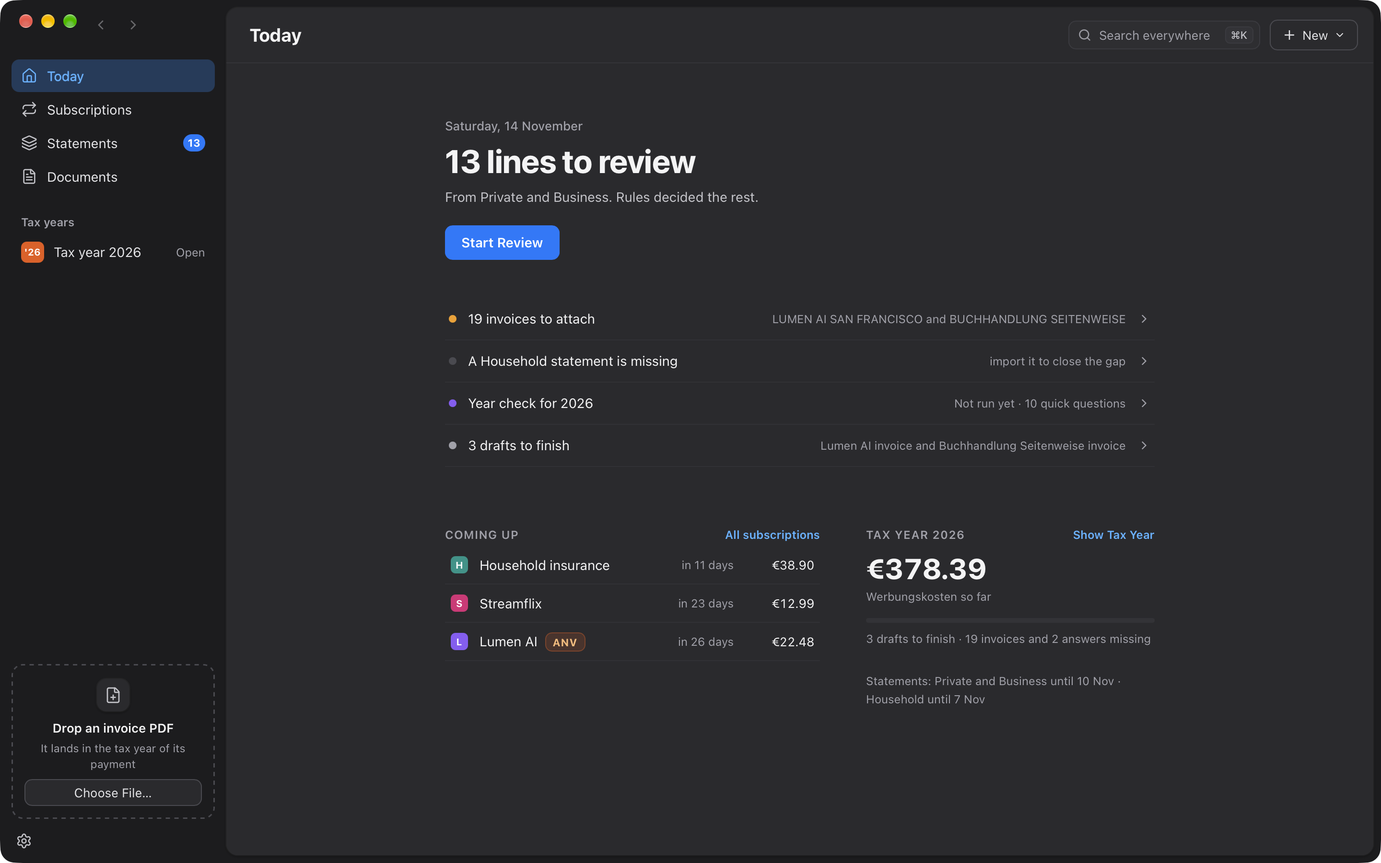
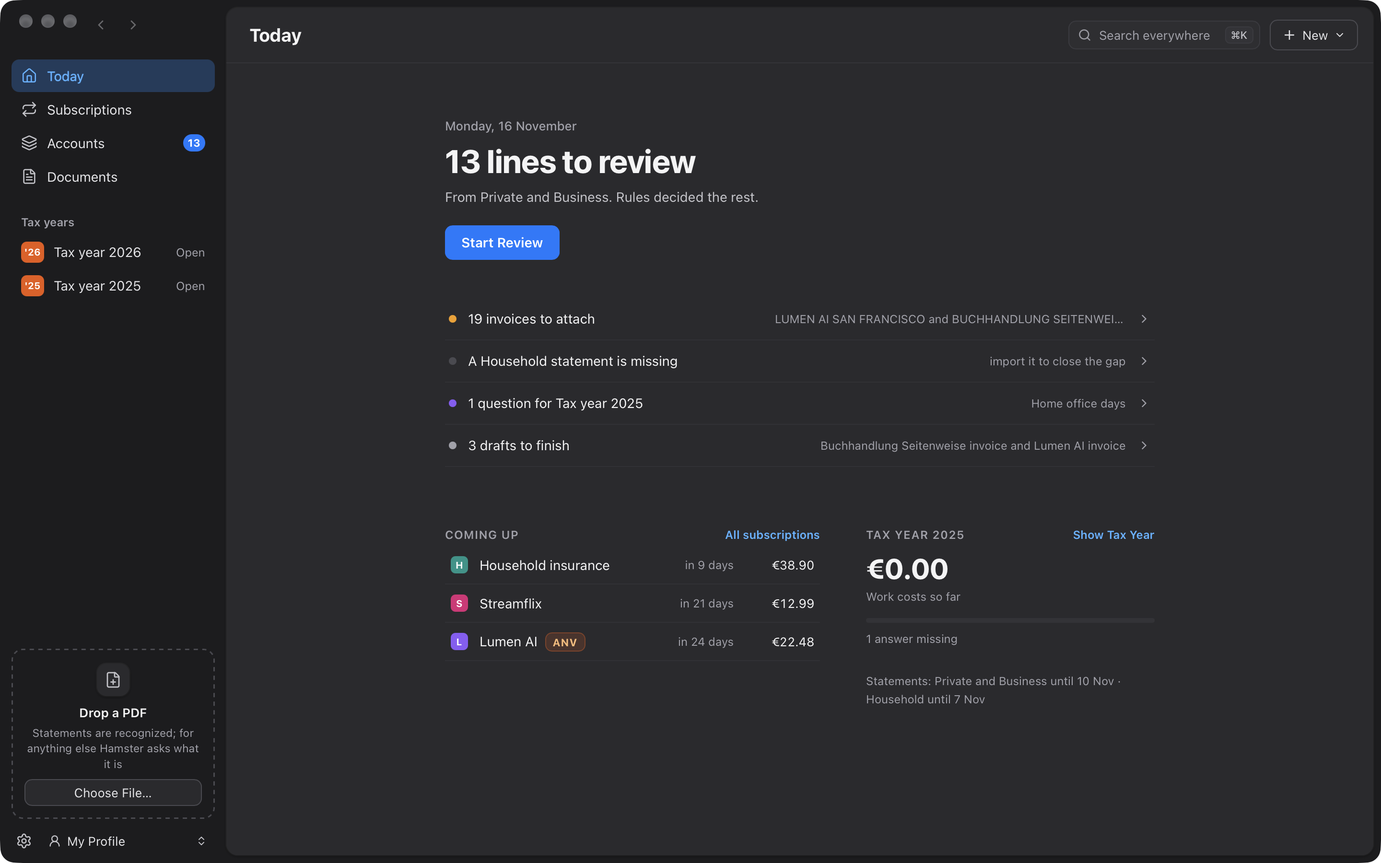
Bring the docs and screenshots up to date

diff --git a/src-tauri/src/profiles/mod.rs b/src-tauri/src/profiles/mod.rs
@@ -1,5 +1,5 @@
 //! Profiles: each person's data in its own folder under `profiles/`, listed in `profiles.json` in the app
-//! folder. The app opens the active profile at launch; a switch starts the app anew on another (ADR 0060).
+//! folder. The app opens the active profile at launch and switches to another in place (ADR 0060, ADR 0061).
 
 pub mod cli;
 pub mod commands;

diff --git a/docs/architecture.md b/docs/architecture.md
@@ -53,8 +53,7 @@ These rules hold everywhere in the code. Keep them when you change things.
 - No URL scheme (ADR 0047): outside callers use the CLI.
 - At launch a supervised task checks every referenced PDF (exists, SHA-256 matches) and appends journal rows
   missing from `journal.jsonl`; findings become a banner, nothing is repaired silently.
-- Reminders are (re)scheduled with the macOS notification center at launch and after every change that moves
-  a date; they fire while the app is not running (ADR 0035).
+- The running app tells due reminders at launch and every half hour (`app.rs` `REMINDER_INTERVAL`, ADR 0042).
 
 ## Data
 
@@ -69,14 +68,15 @@ Everything lives in the config dir (ADR 0012), 0700 with files 0600; each person
   settings.json         language, appearance, accent, number format (`settings::APP_WIDE`)
   profiles/<id>/
     hamster.sqlite      accounts, statements, transactions, rules, decisions, vendors, documents,
-                        document_links, deletions, answers, entries, subscriptions, plans, tax_years,
-                        snapshots, journal
+                        document_links, deletions, answers, entries, hidden_items, year_checks,
+                        subscriptions, plans, payslips, others, tax_years, snapshots, journal
     journal.jsonl       append-only copy of the journal table, one line per changed field, never rewritten
-    docs/<year>/        <yyyy-mm-dd>-<vendor>.pdf by payment date; -2, -3 on collision; evidence/ for amounts
+    docs/<year>/        <yyyy-mm-dd>-<vendor>.pdf by payment date; -2, -3 on collision; evidence/ for amounts;
+                        payslips/ for payslips
+    docs/other/         other documents worth keeping
     docs/inbox/         undated documents under their original name
     statements/<year>/  <account>-<nr>.pdf, year of the statement's end date
     snapshots/          <year>-summary.pdf, written when a year is closed; -2, -3 after a reopen
-    rules/              the owner's versions of the tax rules
     reminders.json      the keys of the reminders already told (ADR 0042)
     settings.json       every other setting
 ```
@@ -151,12 +151,12 @@ Frontend (`src/`):
 | `api/` | the `api` object (only place that imports `@tauri-apps/*`), `toAppError`, generated `types.gen.ts` |
 | `state/` | the zustand store (route and history, filter, toasts, confirmation; `window.hamster` in debug builds), `route.ts` (every page), `useAppEvents` |
 | `shell/` | `Window`, `FilesBanner` (red line while stored PDFs are missing or changed), `Sidebar` (pages, tax years, drop zone), `Header` (crumb, title, page controls, filter field with "matches elsewhere" and ⌘↩, + New), page titles |
-| `pages/` | each page's body (`PageBody`), the per-page header texts, `FirstRun` (no account yet), `StatementsPage` (coverage per account, Start Review), `AccountPage` (lines by statement with their decision), `TodayPage` (the next step as headline, quiet rows, coming up, the tax year), `ReviewPage` (one line at a time; A, S, I pick, Return confirms, J skips), `SubscriptionsPage` (by next charge, Ended folded, the detail panel), `DocumentsPage` (by year plus Inbox), `DocumentPage` (PDF beside `DocumentForm`, History on the right, finished and excluded banners), `LogPage`, `ArchivePage`, `YearPage` (hero, questions, needs attention, By Kennzahl with copy buttons, By month, … menu) |
+| `pages/` | each page's body (`PageBody`), the per-page header texts, `FirstRun` (no account yet), `StatementsPage` (the Accounts page: coverage per account over one calendar year with a year stepper, ADR 0059; Start Review), `AccountPage` (lines by statement with their decision), `TodayPage` (the next step as headline, quiet rows, coming up, the tax year), `ReviewPage` (one line at a time; A, S, I pick, Return confirms, J skips), `SubscriptionsPage` (by next charge, Ended folded, the detail panel), `DocumentsPage` (by year plus Inbox), `DocumentPage` (PDF beside `DocumentForm`, History on the right, finished and excluded banners), `LogPage`, `ArchivePage`, `YearPage` (hero, questions, needs attention, By Kennzahl with copy buttons, By month, … menu) |
 | `documents/` | `DocumentForm` (each field saves on its own; Mark Finished), `DepreciationBlock`, `HistoryList`, `ExcludeSheet`, `DeleteSheet`, `lifecycle.ts`, `LinePicker` (link a bank line), `AddDocumentSheet` (vendor, item, the bank line that paid it, what it counts as), `addFlow.ts` (`startAddDocument` from ⌘O, + New and the sidebar's Choose File…; `attachInvoiceTo`, the tax year's Attach PDF… for one bank line, which the sheet starts on; `useDroppedDocuments`) |
 | `subscriptions/` | `flow.ts` (New, New from a line, Edit, Change Plan, End, Resume, Delete), `SubscriptionSheet` (New and Edit, with the live match count; from a line it shows `SourceLine`, whose selected text becomes the match text), `PlanSheet` (Change Plan, with the line it came from), `SubscriptionPanel` (the detail panel beside the list) |
 | `review/` | `ReviewCard` (one line, "What is this line?" as a radio group, only the picked choice's details, and a confirm button beside one sentence of what it will do; its title and bank lines are selectable, and a selection becomes the term the Always rule or a new subscription matches, with a live "Matches N lines" count; a charge at another amount asks "Is this <subscription>?": Yes, new price · Yes, this once · No, after which it is asked like any line) |
-| `year/` | `YearMenu` (Log, Archive, Export Summary PDF…, Open Ruleset JSON, Close Year… or Open Snapshot PDF and Reopen Year…), `CloseYearSheet`, `AddEntry` (a Kennzahl's "+ Document/Amount/Trip": the add flow with its item set, or the inline amount or trip row), `entryActions.ts` (delete, attach and open evidence, each with an Undo toast), `PayslipPanel` (the year's sidebar: payslip sums only), `YearSidebarToggle` (its toggle at the header's trailing edge; `view:payslips`) |
-| `payslips/` | `PayslipForm` (each value saves on its own), `AddPayslipFields`/`AddOtherFields` (the Add sheet's payslip and other side), `flow.ts` (enter, add a PDF, add an other document, toggle the year's sidebar) |
+| `year/` | `YearMenu` (Choose Categories…, Log, Archive, Export Summary PDF…, Tax Rules… in Settings, Close Year… or Open Snapshot PDF and Reopen Year…), `CloseYearSheet`, `AddEntry` (a Kennzahl's "+ Document/Amount/Trip": the add flow with its item set, or the inline amount or trip row), `entryActions.ts` (delete, attach and open evidence, each with an Undo toast), `PayslipPanel` (the year's sidebar: payslip sums only), `YearSidebarToggle` (its toggle at the header's trailing edge; `view:payslips`) |
+| `payslips/` | `PayslipForm` (each value saves on its own), `AddPayslipFields` (the Add sheet's payslip side and, as `AddOtherFields`, its other side), `flow.ts` (enter, add a PDF, add an other document, toggle the year's sidebar) |
 | `documents/lists/` | the tabs of Dokumente (`pages/DocumentsPage`): `InvoiceList`, `StatementList`, `PayslipList`, `OtherList`; `documents/DetailLayout` is the shared detail page (PDF over most of the page, sidebar on the right) of `DocumentPage`, `StatementPage`, `PayslipPage` and `OtherPage` |
 | `statements/` | `ImportSheet` (what was read and checked; nothing is stored until Import), `importFlow.ts` (`startImport` from ⌘I, + New, the drop line and the first run; `useDroppedStatements`) |
 | `accounts/` | `AccountForm` (first run and Settings) and `AccountSheet` |

diff --git a/docs/ux.md b/docs/ux.md
@@ -11,10 +11,11 @@ One main window (1440×900 by default, min 1100×680) and the Settings window. N
 no context filter: time appears only as tax years and statement coverage.
 
 ### Sidebar (236px, on `--window-bg`)
-Top to bottom: the traffic-light strip (drags the window) · Today · Subscriptions · Statements (count badge =
+Top to bottom: the traffic-light strip (drags the window) · Today · Subscriptions · Accounts (count badge =
 lines waiting for review) · Documents (all years) · section **Tax years**, one row per year (Open, or a lock
 when closed) · the **doc zone** pinned at the bottom (drop target plus one Choose File… button; it highlights
-while a PDF is dragged anywhere over the window) · footer with the sidebar toggle and Settings. Rows 34px, 8px radius, 14px text;
+while a PDF is dragged anywhere over the window) · footer with Settings and the profile switcher (the active profile; its menu switches, adds or renames
+profiles). Rows 34px, 8px radius, 14px text;
 the selected row is an accent wash with accent text.
 
 ### Header (58px, same on every page)
@@ -22,7 +23,8 @@ Title (19px bold) · one page-specific control (for example the By Kennzahl / By
 field (200px, ⌘F, Esc clears; filters the current list as you type; when the text also matches elsewhere a
 small menu lists those matches plus Search everywhere ⌘↩; on pages without a list it reads Search everywhere;
 on Documents it and the big search field are one search)
-· the **+ New** menu: Import Statement… ⌘I, Add Invoice PDF… ⌘O, New Subscription ⌘N.
+· the **+ New** menu: Import Statement… ⌘I, Add Invoice… ⌘O, Add Payslip…, Add Other Document…, New
+Subscription ⌘N.
 
 ### Pages
 | Page | Shows |
@@ -30,7 +32,7 @@ on Documents it and the big search field are one search)
 | Today | one headline next step with one primary button (review → attach invoices → import overdue statement → finish drafts), other open items as quiet rows, the next 5 charges, the tax year's total and progress (the oldest open year once it is over, else the current one), one line on statements; the hamster with "You're up to date" when nothing is open |
 | Review | one undecided line at a time: "What is this line?" ANV (A) · Subscription (S) · Ignore (I) picks (the suggestion starts picked), only the pick's detail, "Also decide every line containing TERM this way", one sentence of what will happen beside the confirm button (↩); Skip (J), Previous, progress bar; "Is this <subscription>?" for another amount (Yes, new price · Yes, this once · No); a done state with counts |
 | Subscriptions | grouped by next charge (next 7 days · next 30 days · later, Ended collapsed); header: active count and cost per month; a detail panel with a 12-month plan timeline |
-| Accounts (Konten) | one coverage bar per account over 12 months (imported, partly, missing, before the first statement) and a status tag per account (Up to date, N to review, Statement missing, N days behind) |
+| Accounts (Konten) | one coverage bar per account over one calendar year, January to December, with a year stepper in the header (ADR 0059) (imported, partly, missing, before the first statement) and a status tag per account (Up to date, N to review, Statement missing, N days behind) |
 | Account | the account's lines grouped by statement, with a note where a statement is missing between two groups; clicking a decided line changes it (ANV with its item, Subscription, Ignore; one undoable change), a waiting line opens Review, transfers are fixed; each statement's number opens its PDF |
 | Tax year | recording first, filing last (ADR 0052). Hero with the total and progress ("Work costs 2026"; the FinanzOnline view says "Total to enter in FinanzOnline" with the rules version); **Your year** (number fields such as Home office days; empty = unanswered); Needs attention (missing invoices, drafts, undated scans); Categories / Months / FinanzOnline. Categories (default while open): each item by its plain label with examples (categories hidden for the year, ADR 0053, stay out unless they have an entry; "N hidden categories · Show" at the end; Show lists them below that line, so nothing above it moves), its rows (documents, amounts, trips, slices with a "From 2025" pill; row amounts only when it has several rows), its total and "+ Add" (Document, Amount or Trip); no Kennzahl and no rules text. Months: Whole year (amounts and earlier slices), then each month. FinanzOnline (default once closed): the Werbungskostenpauschale note, then every Kennzahl in number order, like the form (0,00 where nothing counts), its legal name, a copy button, the item's note and one worked-out line from its estimate rules ("About €928.40 counts: …"); A toggle at the toolbar's trailing edge (and View → Show or Hide Payslips, ⌥⌘L) opens the year's sidebar, a full-height column on the right like a macOS inspector: the year's payslip sums and "10 of 12 payslips" with Show in Documents (ADR 0056); while a payslip prints home office days, "Your year" shows them read-only with their month; … menu: Choose Categories…, Log, Archive, Export Summary PDF, Tax Rules… (Settings); Close Year… / Open Snapshot PDF |
 | Document (invoice) | `DetailLayout` (ADR 0056): the PDF over most of the page; on the right the edit form (Payment → Classification with the item picker and work share → Result → Notes → More), a GWG line or the Depreciation block, and History as a disclosure; breadcrumb "Documents /" or the tax year it was opened from |
@@ -76,7 +78,7 @@ on Documents it and the big search field are one search)
 - Lists don't re-sort while in use; a decided or removed row keeps its place (grayed) until the page is left.
 - Controls keep their size: state shows by color and outline, never an added icon or text; buttons that only
   sometimes apply keep their slot, invisible.
-- Nothing jumps, things move: fade in, glide (`useGlide`, `useListGlide`), animate height (`useHeightGlide`).
+- Nothing jumps, things move: fade in, glide (`useGlide`, `useListGlide`).
 - Folding into "…" follows the window width only.
 - Before finishing a UI change: click every new or changed control twice and run `scripts/dev/e2e.sh`.
 
@@ -156,7 +158,7 @@ About has Show Data Folder and Open Log Folder. Shortcuts groups rows by where t
 window", then each page's fixed keys) and asks before taking a key another command holds (Reassign).
 
 ## Keys
-App actions are Rust commands with colon ids (ADR 0046); page keys (Review's A, S, I, J) are fixed, printed on their buttons and never fire in text fields. Menus in Mac order; View holds window appearance only; Help holds Open Log Folder and Show Data
+App actions are Rust commands with colon ids (ADR 0046); page keys (Review's A, S, I, J) are fixed, printed on their buttons and never fire in text fields. Menus in Mac order; View holds the palette, the filter field and Show/Hide Payslips; Help holds Open Log Folder and Show Data
 Folder. One binding per command.
 
 ## Palette checks

diff --git a/docs/adapting.md b/docs/adapting.md
@@ -9,14 +9,14 @@ the subagents for tests, suites and reviews. Every new name-, path- or platform-
 | What | Release | Debug | Where |
 |---|---|---|---|
 | Product name | `Hamster` | `Hamster (Debug)` | `tauri.conf.json` `productName` and window title, `tauri.debug.conf.json`, `lib.rs` `APP_NAME`, `index.html` |
-| Bundle identifier | `com.philippstracker.hamster` | `com.philippstracker.hamster.debug` | both configs and `lib.rs` `IDENTIFIER` (tested); names the config dir (all data and PDFs) and logs |
+| Bundle identifier | `com.philippstracker.hamster` | `com.philippstracker.hamster.debug` | both configs and `lib.rs` `IDENTIFIER` (tested); names the config dir (every profile's data and PDFs) and logs |
 | Binary and CLI | `hamster` | the same, called by path | Cargo package name (also the self dev-dependency), `cli/` |
 | Installed links | `~/Applications/Hamster.app`, `~/.local/bin/hamster` | never installed | `scripts/install.sh` |
 | Socket and lock | `hamster.sock`, `hamster.lock` in the config dir | its own | `lib.rs`, `instance.rs`, `scripts/dev/js.sh` |
-| Config dir | `~/Library/Application Support/<identifier>/`, each profile's data in `profiles/<id>/` | its own | `lib.rs` `config_dir()`, `profile_dir()`; `profiles/` |
+| Config dir | `~/Library/Application Support/<identifier>/`, each profile's data in `profiles/<id>/` | its own | `lib.rs` `config_dir()`, `profiles::dir()` |
 | Logs | `~/Library/Logs/<identifier>/` | its own | Tauri `app_log_dir` |
 | Signing | `HAMSTER_SIGN_IDENTITY`, else Apple Development, else `Hamster Local Signing` | same | `scripts/sign-app.sh` |
-| Env vars | `HAMSTER_SIGN_IDENTITY` | adds `HAMSTER_WINDOW_FRAME`, `HAMSTER_BACKGROUND`, `HAMSTER_DEV_TERMINAL` | `dev.rs`, `scripts/dev/` |
+| Env vars | `HAMSTER_SIGN_IDENTITY` | adds `HAMSTER_WINDOW_FRAME`, `HAMSTER_BACKGROUND`, `HAMSTER_DEV_TERMINAL` | `src-tauri/src/dev/`, `scripts/dev/`; `HAMSTER_REAL_FIXTURES` in `src-tauri/tests/` |
 | Dev store | — | `window.hamster` (`VITE_DEV_HOOKS=1`) | `src/main.tsx` |
 | Data | the owner's | the demo seed | `src-tauri/src/test_support/` |
 | UI languages | English, German (de-DE, du) | same | `settings::Language`, `src-tauri/src/i18n.rs`, `src/i18n/` (ADR 0050); a third language is a new enum value plus one text per call site and catalog key |
@@ -35,19 +35,19 @@ CLI's Unix socket in the config dir. A new host or listener needs an ADR and a r
 - PDFKit through objc2 (`platform/pdf`): text extraction for statements and invoices, page rendering for
   thumbnails and the year summary PDF; the native `PDFView` over the page (`platform/pdf_view`, ADR 0037).
 - `NSDateFormatter` through objc2: dates in the macOS region (ADR 0010).
-- The macOS notification center (`platform/notify`): local reminders.
+- The macOS notification center (`notify.rs`): local reminders.
 
 ## Common changes
 
 | Goal | Start here |
 |---|---|
-| A new command or shortcut | `src-tauri/src/bus/`, the menu table in `src-tauri/src/menu/`, `docs/ux.md` → Keys |
-| A new setting | the `Settings` model in `src-tauri/src/store/settings/`, a page in `src/registry/settingsPages.ts` |
+| A new command or shortcut | `src-tauri/src/commands/`, the menu table in `src-tauri/src/menu/`, `docs/ux.md` → Keys |
+| A new setting | the `Settings` model in `src-tauri/src/settings/`, a page in `src/settings/pages/` (`src/settings/registry.ts`) |
 | A new Tauri command | the feature's `commands.rs`, `handlers.rs`, `src/api/index.ts`, `src/test/apiMock.ts` |
 | A new CLI subcommand | `src-tauri/src/cli/`, `src-tauri/src/remote/` |
 | A new color | a token in every palette under `src/styles/palettes/` |
 | A new bank statement layout | a new parser module beside the existing ones, its synthetic fixture, the layout id stored on each statement |
-| A new tax year's Kennzahlen | add `resources/rules/rules-<year>.json` and list it in `taxrules::files::BUNDLED`; without a release, Settings → Tax Rules → Start <year> copies the previous year |
+| A new tax year's Kennzahlen | add `src-tauri/resources/rules/rules-<year>.json` and list it in `taxrules::files::BUNDLED`; without a release, Settings → Tax Rules → Start <year> copies the previous year |
 | A new journaled field | the op that writes it, its inverse, the History label |
 
 ## Conventions to keep

diff --git a/README.md b/README.md
@@ -3,7 +3,7 @@
 My offline money archive for macOS. It hoards every invoice and bank statement so none gets lost, asks only
 what it can't know, and ends each tax year with the numbers to type into the tax return.
 
-It does three jobs for one person on one Mac:
+It does three jobs:
 
 - **Work expenses for the tax return.** In Austria, employees claim work-related costs (*Werbungskosten*) in
   their yearly return (*Arbeitnehmerveranlagung*, ANV) on the tax office's portal, FinanzOnline, one total per
@@ -13,7 +13,7 @@ It does three jobs for one person on one Mac:
   balances and numbering. It decides most lines with rules and keeps every statement as it was printed.
 - **Subscriptions.** It tracks what renews when, what it costs per month, and how each price changed.
 
-It is a local tool for one person on one Mac. Published as source, as-is: no releases, no binaries, no
+It is a local tool for one Mac, with a profile per person. Published as source, as-is: no releases, no binaries, no
 support. To build it or port it, point a coding agent at [AGENTS.md](AGENTS.md).
 
 ![Today: the one next step, other open work, the next charges and the tax year so far](docs/screens/today-dark.png)
@@ -43,6 +43,8 @@ support. To build it or port it, point a coding agent at [AGENTS.md](AGENTS.md).
   enough to read, with its details beside it: the invoice form, a statement's balances, a payslip's numbers
   (gross, social insurance, income tax), or just a title and note for anything else worth keeping. The tax
   year's sidebar sums the payslips, and the latest payslip's home office days answer the year's question.
+- **Profiles:** each person's data in a folder of its own. The switcher at the bottom of the sidebar
+  opens another profile in place, or a new, empty one.
 - **Keyboard first:** ⌘K finds anything and runs any command, every action has a menu item and a shortcut, and
   the `hamster` command line drives the running app.
 
@@ -50,7 +52,7 @@ support. To build it or port it, point a coding agent at [AGENTS.md](AGENTS.md).
 |---|---|
 | ![Review: pick what a bank line is, then confirm the sentence that says what will happen](docs/screens/review-light.png) | ![The tax year: the total to enter, what needs attention, one copy value per Kennzahl](docs/screens/year-light.png) |
 | ![Subscriptions by next charge, with a subscription's plan history](docs/screens/subscriptions-dark.png) | ![Documents by tax year, with the "Is it already here?" search](docs/screens/documents-light.png) |
-| ![Statements: coverage per account over twelve months, with a missing statement named](docs/screens/statements-dark.png) | |
+| ![Accounts: coverage per account over twelve months, with a missing statement named](docs/screens/accounts-dark.png) | |
 
 All screenshots show made-up demo data from the debug build (`scripts/dev/screens.sh`).
 
@@ -58,12 +60,13 @@ All screenshots show made-up demo data from the debug build (`scripts/dev/screen
 
 - **No network at all:** the app contains no HTTP client, and a test checks the dependency tree for one. PDF
   text and previews come from macOS's own PDFKit.
-- **One folder:** everything lives in one SQLite file plus the original PDFs in
-  `~/Library/Application Support/com.philippstracker.hamster/`. Original PDFs are never modified.
+- **One folder per profile:** a profile's data is one SQLite file plus the original PDFs in
+  `~/Library/Application Support/com.philippstracker.hamster/profiles/<id>/`. Original PDFs are never
+  modified.
 - **Nothing disappears by accident:** every change is a journaled operation, mirrored to an append-only
   `journal.jsonl`, and can be undone. Finished documents and closed tax years are locked; reopening is an
   explicit, logged act.
-- **Not included:** budgeting, bookkeeping, tax calculation, bank connections, multiple users or sync.
+- **Not included:** budgeting, bookkeeping, tax calculation, bank connections or sync.
 
 ## Install
 

diff --git a/docs/adr/README.md b/docs/adr/README.md
@@ -46,7 +46,7 @@ Why Hamster is built the way it is. One record per decision, in Nygard format, a
 | [0034](0034-settings-window.md) | Settings is a window of its own | Accepted (2026-11-13) |
 | [0035](0035-closing-the-window-keeps-the-app-running.md) | Closing the window keeps the app running in the Dock | Accepted (2026-11-13); reminder clause superseded by 0042 |
 | [0036](0036-no-status-bar.md) | No status bar | Accepted (2026-11-13) |
-| [0037](0037-pdfs-show-in-a-native-pdfview.md) | PDFs show in a native PDFView over the page | Accepted (2026-11-13) |
+| [0037](0037-pdfs-show-in-a-native-pdfview.md) | PDFs show in a native PDFView over the page | Accepted (2026-11-13); overlay handling superseded by 0057 |
 | [0038](0038-tax-rules-are-versioned-data-per-year.md) | Tax rules are versioned data per year, split into copy values and preview | Superseded by 0040 |
 | [0039](0039-werbungskosten-only-open-for-other-l1-sections.md) | Werbungskosten only, open for other L1 sections | Accepted (2026-11-13); partly superseded by 0040 |
 | [0040](0040-tax-rules-live-in-a-json-file-per-year.md) | Tax rules live in a JSON file per year; the tax year shows one copy value per Kennzahl | Accepted (2026-11-13); file handling superseded by 0051 |
@@ -64,7 +64,7 @@ Why Hamster is built the way it is. One record per decision, in Nygard format, a
 | [0052](0052-record-in-plain-words-file-in-finanzonline-terms.md) | Record in plain words, file in FinanzOnline terms; no year check | Accepted (2026-11-15) |
 | [0053](0053-hide-unused-categories-per-year.md) | Hide unused categories per year; FinanzOnline lists every Kennzahl | Accepted (2026-11-15) |
 | [0054](0054-import-a-rules-file-for-any-year.md) | Import a rules file for any year | Accepted (2026-11-15) |
-| [0055](0055-payslips-as-their-own-record.md) | Payslips as their own record; home office days from the latest one | Accepted (2026-11-15) |
+| [0055](0055-payslips-as-their-own-record.md) | Payslips as their own record; home office days from the latest one | Accepted (2026-11-15); where payslips show changed by 0056 |
 | [0056](0056-dokumente-holds-every-pdf.md) | Dokumente holds every PDF; one detail layout; a real tax-year sidebar | Accepted (2026-11-15) |
 | [0057](0057-overlays-cut-holes-in-the-pdf-preview.md) | Overlays cut holes in the PDF preview instead of hiding it | Accepted (2026-11-16) |
 | [0058](0058-commands-run-off-the-main-thread.md) | Data commands run off the main thread | Accepted (2026-11-16) |

diff --git a/docs/testing.md b/docs/testing.md
@@ -36,7 +36,7 @@ step.
 - **Contracts:** `lib.rs` tests compare `APP_NAME` and `IDENTIFIER` with both Tauri configs and
   keep the version equal in `Cargo.toml`, `tauri.conf.json` and `package.json`; each `#[ts(export)]` type has
   an `export_bindings_*` test (`bun run types`).
-- **Parsers** are tested against synthetic statements in the bank's layout (`test_support/fixtures/`):
+- **Parsers** are tested against synthetic statements in the bank's layout (`test_support/statements.rs`):
   balance check, a tampered copy, card and FX lines, a gap in the chain. Real sample statements never enter
   the repo; `HAMSTER_REAL_FIXTURES=<dir>` runs an ignored test against local copies.
 - **No network:** `src-tauri/tests/no_network.rs` scans `Cargo.toml` and `cargo tree` for HTTP crates (ADR 0016); it runs with the unit tests.
@@ -55,7 +55,7 @@ step.
 The debug app, the tests and the README screenshots share one made-up data set in
 `src-tauri/src/test_support/` (ADR 0022, [`demo-data.md`](../.claude/rules/demo-data.md)).
 The debug app seeds it on its first launch with an empty data folder; `hamster dev seed --yes` (the debug
-binary) starts over. Notifications are recorded, not posted, unless `HAMSTER_REAL_NOTIFICATIONS=1`; the
+binary) starts over. Debug builds record notifications and never post them; the
 demo statement and invoice PDFs are generated from invented data.
 
 ## Driving the app

diff --git a/docs/README.md b/docs/README.md
@@ -34,3 +34,4 @@ user-level `app-blueprint` skill). When this repo has no answer yet, look there 
 | Daybook | `../daybook` | the Rust command bus (`docs/commands.md`), extra windows on a native layer, menu-bar app, global shortcuts, local HTTP API, JSON stores with repair |
 | TimeTracker | `../timetracker` | SQLite through sqlx, undo as ops, the seeds and showcase, performance tests, socket `watch`, the MCP server |
 | DataBee | `../databee` | optional features as inline plugins, ports with fakes (`Database`, `SecretStore`), the `Secret` type |
+| Launcher | `../project-launcher` | Settings search over every row, the Shortcuts page, the accent choice |

diff --git a/AGENTS.md b/AGENTS.md
@@ -46,7 +46,7 @@ build's, and start with made-up demo data. Hamster makes no network requests.
 | `bun run test` | Vitest and Rust unit tests pass |
 | `bun run lint` | exits 0: types drift check, `tsc`, ESLint, `clippy -D warnings` |
 | `cargo fmt --manifest-path src-tauri/Cargo.toml --check` | no differences |
-| `bun run release` | `Hamster.app` installed to `~/Applications`, the version committed and tagged |
+| `bun run release patch` | `Hamster.app` installed to `~/Applications`, the version committed and tagged |
 
 ## Adapt
 
